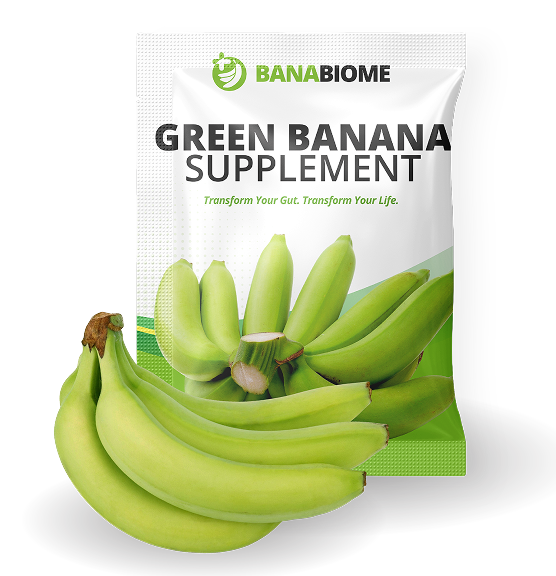
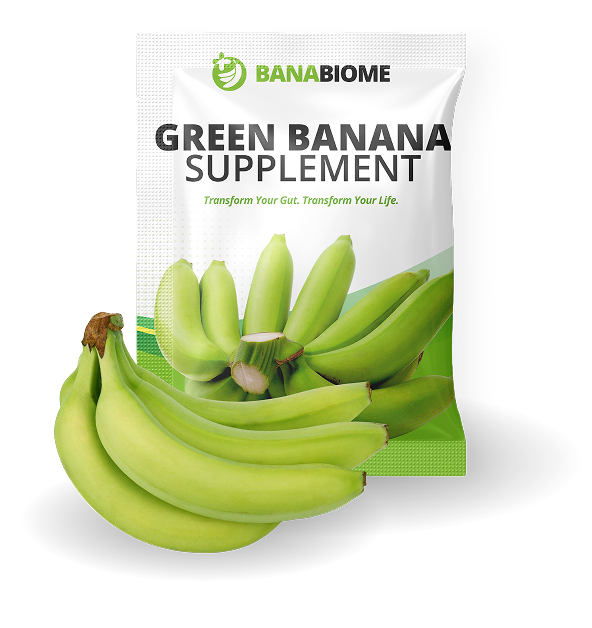
enhanced hero section

diff --git a/src/components/home/HeroSection.vue b/src/components/home/HeroSection.vue
@@ -3,20 +3,33 @@
     <div class="max-w-7xl mx-auto flex flex-col lg:flex-row items-center justify-between gap-8 px-4">
       <!-- Left: Product Image (bag + bananas as one image) -->
       <div class="relative flex-1 flex flex-col items-center">
-        <div class="absolute -left-8 top-1/2 -translate-y-1/2 bg-white rounded-full shadow px-3 py-2 flex items-center text-sm font-medium text-gray-700">
-          <svg class="w-5 h-5 mr-1 text-green-600" fill="none" stroke="currentColor" stroke-width="2" viewBox="0 0 24 24"><path stroke-linecap="round" stroke-linejoin="round" d="M12 4v16m8-8H4"/></svg>
-          Loved by 10,000+ Happy Guts
+        <!-- Floating "Loved by" badge -->
+        <div class="absolute -left-2 top-1/3 -translate-y-1/2 bg-white rounded-md shadow px-3 py-2 flex items-center text-sm font-medium text-gray-700 z-30">
+          <svg xmlns="http://www.w3.org/2000/svg" fill="none" viewBox="0 0 24 24" strokeWidth={1.5} stroke="currentColor"  class="w-8 h-8 mr-2 text-primary">
+  <path strokeLinecap="round" strokeLinejoin="round" d="M21 8.25c0-2.485-2.099-4.5-4.688-4.5-1.935 0-3.597 1.126-4.312 2.733-.715-1.607-2.377-2.733-4.313-2.733C5.1 3.75 3 5.765 3 8.25c0 7.22 9 12 9 12s9-4.78 9-12Z" />
+</svg>
+
+          Loved by 10,000+ <br/>Happy Guts
         </div>
-        <div class="bg-secondary rounded-2xl p-4 relative z-10">
-          <!-- Placeholder image, replace with your actual asset later -->
-          <img src="@/assets/product-bag.png" alt="Green Banana Supplement" class="w-72 h-auto mx-auto drop-shadow-xl" />
+        <!-- Background card -->
+        <div class="bg-secondary rounded-2xl p-4 relative z-10 w-60 h-60 md:w-96 md:h-96 flex items-center justify-center">
+        
         </div>
+       
+        <img
+          src="@/assets/product-bag.png"
+          alt="Green Banana Supplement"
+          class="w-72 h-auto md:w-[450px] absolute top-1/2 left-1/2 z-20 -translate-x-1/2 -translate-y-1/2 drop-shadow-xl pointer-events-none"
+        />
       </div>
       <!-- Right: Text -->
       <div class="flex-1 flex flex-col items-start lg:items-start mt-8 lg:mt-0">
-        <p class="text-primary font-semibold mb-2">Welcome to Banabiome<sup class="text-xs align-super">™</sup></p>
-        <h1 class="text-4xl md:text-5xl font-extrabold text-gray-900 mb-4 leading-tight">A Happier Gut<br />Starts With Nature</h1>
-        <button class="bg-primary hover:bg-green-700 text-white font-semibold px-8 py-3 rounded-md shadow transition-colors duration-150 text-lg">
+        <p class="text-primary font-medium mb-2">Welcome to Banabiome</p>
+        <h1 class="text-4xl md:text-5xl font-extrabold text-gray-900 mb-4">
+  <span class="block">A Happier Gut</span>
+  <span class="block mt-4">Starts With Nature</span>
+</h1>
+        <button class="bg-primary hover:bg-green-700 text-white font-semibold px-8 md:mt-8 py-3 rounded-md shadow transition-colors duration-150 text-lg">
           Discover Banabiome
         </button>
       </div>
@@ -24,6 +37,7 @@
   </section>
 </template>
 
+
 <script setup lang="ts">
-// Accept props for text/images if needed in the future
+
 </script> 

diff --git a/src/components/Navbar.vue b/src/components/Navbar.vue
@@ -6,7 +6,7 @@
         <!-- Logo (left) -->
         <div class="flex items-center">
           <img class="h-14 w-auto" src="@/assets/Banabiome-logo.png" alt="Banabiome" />
-          <h1 class="text-2xl font-bold text-gray-800 ml-4 hidden md:block">Banabiome</h1>
+          <h1 class="text-2xl font-bold text-gray-800 ml-2 hidden md:block">Banabiome</h1>
         </div>
         <!-- Nav Links + Order Now (right) -->
         <div class="flex items-center">

diff --git a/src/components/TopBar.vue b/src/components/TopBar.vue
@@ -29,5 +29,5 @@
 
 
 <script setup lang="ts">
-import { MapPinIcon, EnvelopeIcon, PhoneIcon } from '@heroicons/vue/24/outline'
+import { MapPinIcon, EnvelopeIcon } from '@heroicons/vue/24/outline'
 </script> 
